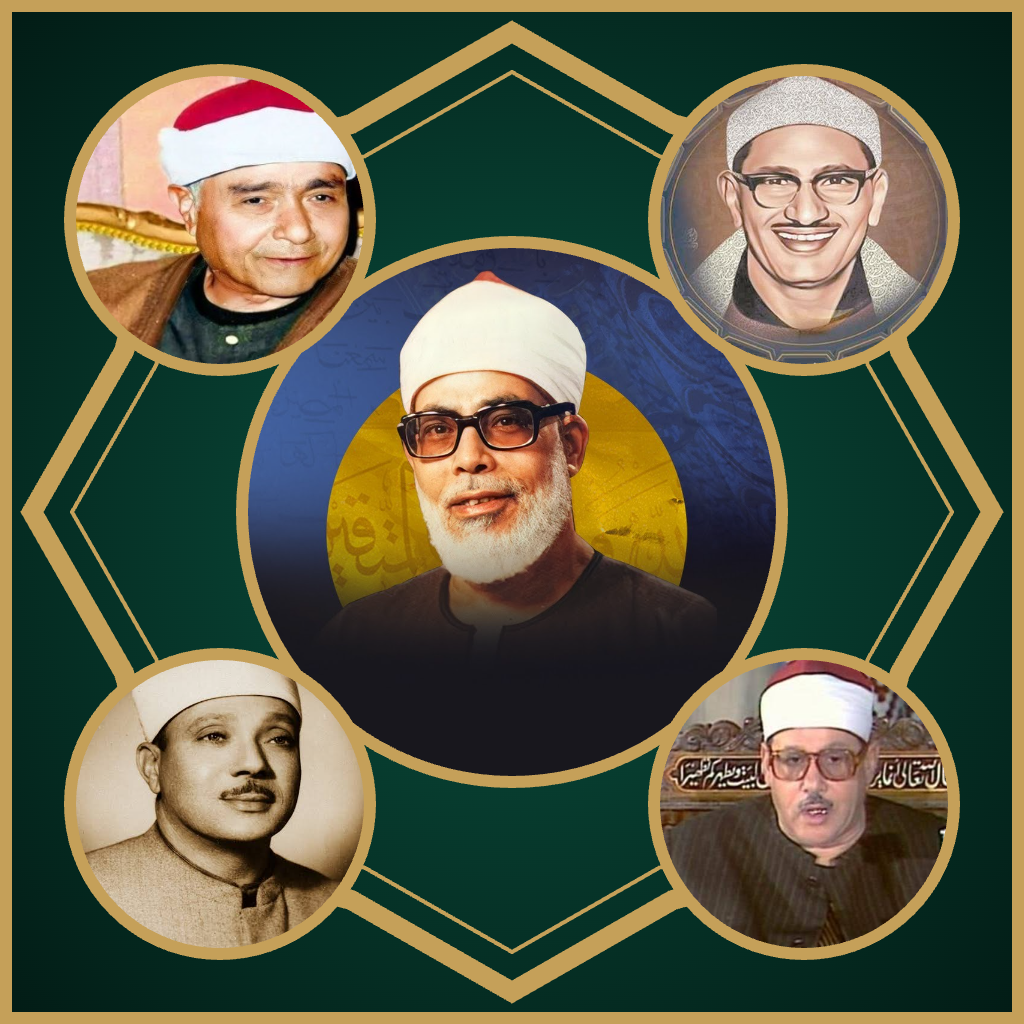
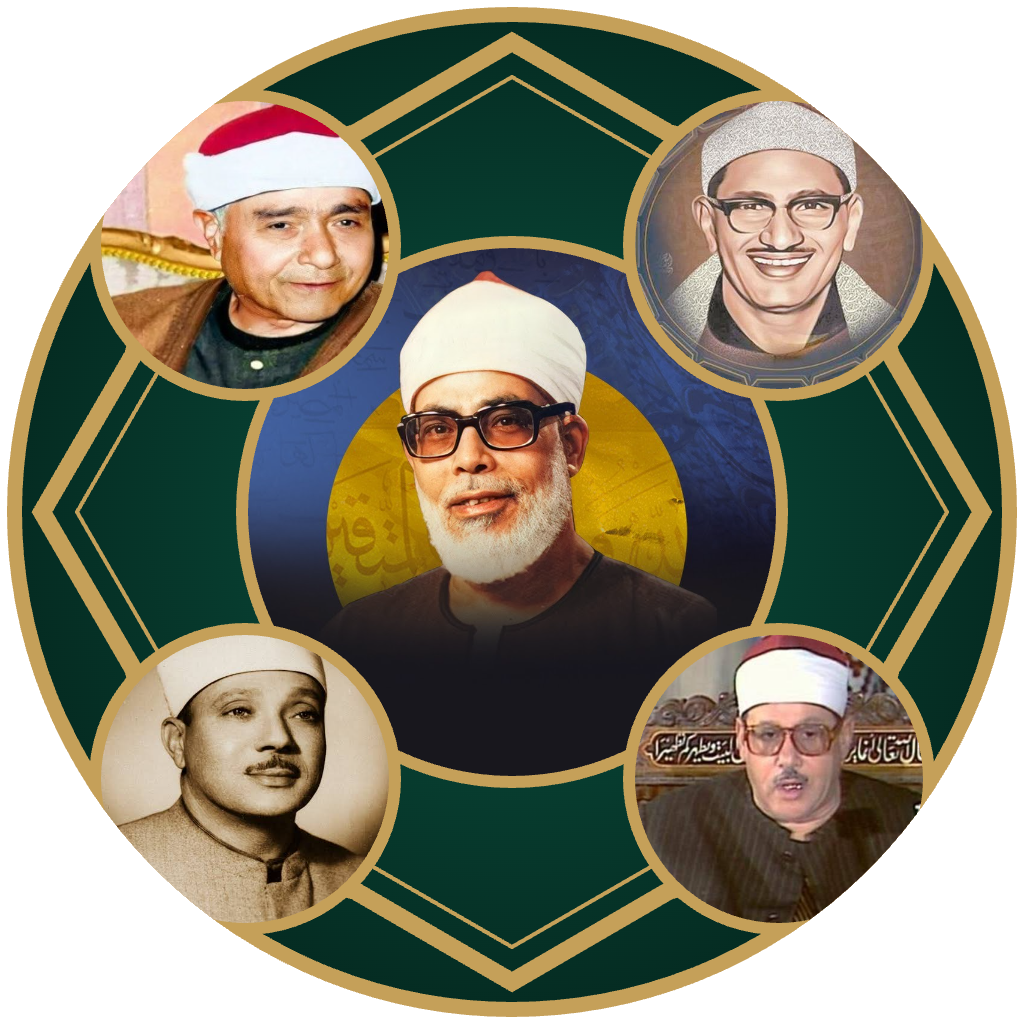
Add files via upload

diff --git a/index.html b/index.html
@@ -44,14 +44,6 @@
         * { box-sizing: border-box; margin: 0; padding: 0; -webkit-tap-highlight-color: transparent; }
         body { font-family: 'Cairo', sans-serif; background: var(--bg-dark); color: var(--text-main); min-height: 100vh; padding-bottom: 140px; user-select: none; }
         
-        /* --- شاشة البداية الثابتة --- */
-        #splash-screen { position: fixed; top: 0; left: 0; width: 100%; height: 100%; background: var(--bg-dark); z-index: 99999; display: flex; flex-direction: column; align-items: center; justify-content: center; transition: opacity 0.5s; }
-        .splash-title { color: var(--accent-gold); font-size: 2.5rem; margin-bottom: 30px; font-weight: 700; letter-spacing: 1px; }
-        .splash-row { display: flex; gap: 15px; justify-content: center; margin-bottom: 15px; width: 100%; }
-        .splash-circle { width: 120px; height: 120px; border-radius: 50%; object-fit: cover; border: 3px solid var(--accent-gold); box-shadow: 0 4px 15px rgba(197, 160, 89, 0.2); animation: fadeIn 0.8s ease both; }
-        @keyframes fadeIn { from { opacity: 0; transform: scale(0.8); } to { opacity: 1; transform: scale(1); } }
-        /* -------------------------------------------------- */
-
         .container { width: 100%; max-width: 480px; margin: 0 auto; padding: 16px; }
 
         .top-bar { display: flex; justify-content: space-between; align-items: center; padding-bottom: 20px; }
@@ -126,29 +118,6 @@
         .dl-progress-fill { height: 100%; width: 0%; background: var(--accent-gold); transition: width 0.1s linear; border-radius: 10px; }
         .dl-modal-pct { margin-top: 12px; font-size: 0.9rem; font-weight: 700; color: var(--accent-gold); }
 
-        /* رسائل التنبيه (Toast) */
-        #toast-container {
-            position: fixed;
-            bottom: 85px;
-            left: 50%;
-            transform: translateX(-50%);
-            background: var(--accent-gold);
-            color: #fff;
-            padding: 8px 18px;
-            border-radius: 25px;
-            font-size: 0.85rem;
-            font-weight: 700;
-            opacity: 0;
-            pointer-events: none;
-            transition: opacity 0.3s ease, transform 0.3s ease;
-            z-index: 10000;
-            box-shadow: 0 4px 15px rgba(0,0,0,0.2);
-        }
-        #toast-container.show {
-            opacity: 1;
-            transform: translate(-50%, -10px);
-        }
-
         /* المشغل السفلي */
         .floating-player { position: fixed; bottom: 12px; left: 50%; transform: translateX(-50%); width: 92%; max-width: 440px; background: var(--player-bg); backdrop-filter: blur(20px); border-radius: 16px; border: 1px solid var(--glass-border); padding: 10px 15px; box-shadow: 0 8px 25px rgba(0,0,0,0.1); display: none; z-index: 1000; transition: background 0.2s; }
         .player-seekbar-container { width: 100%; height: 16px; display: flex; align-items: center; cursor: pointer; direction: ltr; margin-bottom: 6px; touch-action: none; }
@@ -162,13 +131,6 @@
     </style>
 </head>
 <body>
-
-    <div id="splash-screen">
-        <h1 class="splash-title">Egy Quran</h1>
-        <div class="splash-row">
-            <img src="hosary.jpg" class="splash-circle">
-        </div>
-    </div>
 
     <div class="container">
         <div class="top-bar">
@@ -241,9 +203,6 @@
         </div>
     </div>
 
-    <!-- حاوية رسائل التنبيه (Toast) -->
-    <div id="toast-container"></div>
-
     <script>
         const surahNamesEn = [
             "", "Al-Fatihah", "Al-Baqarah", "Ali 'Imran", "An-Nisa", "Al-Ma'idah", "Al-An'am", "Al-A'raf", "Al-Anfal", "At-Tawbah", "Yunus", "Hud", "Yusuf", "Ar-Ra'd", "Ibrahim", "Al-Hijr", "An-Nahl", "Al-Isra", "Al-Kahf", "Maryam", "Taha",
@@ -311,18 +270,6 @@
         let isLooping = false;
         let isAutoNext = true; 
 
-        // نظام رسائل التنبيه (Toast)
-        let toastTimeout;
-        function showToast(message) {
-            const toast = document.getElementById('toast-container');
-            toast.innerText = message;
-            toast.classList.add('show');
-            clearTimeout(toastTimeout);
-            toastTimeout = setTimeout(() => {
-                toast.classList.remove('show');
-            }, 2000);
-        }
-
         function getSurahName(id, nameAr) { return currentLang === 'ar' ? nameAr : surahNamesEn[id]; }
 
         function toggleLanguage() {
@@ -347,25 +294,15 @@
             isLooping = !isLooping;
             audioInstance.loop = isLooping;
             const btn = document.getElementById('btn-loop');
-            if(isLooping) {
-                btn.classList.add('active-feature');
-                showToast(currentLang === 'ar' ? 'تم تفعيل تكرار السورة' : 'Repeat Enabled');
-            } else {
-                btn.classList.remove('active-feature');
-                showToast(currentLang === 'ar' ? 'تم إيقاف تكرار السورة' : 'Repeat Disabled');
-            }
+            if(isLooping) btn.classList.add('active-feature');
+            else btn.classList.remove('active-feature');
         }
 
         function toggleAutoNext() {
             isAutoNext = !isAutoNext;
             const btn = document.getElementById('btn-autonext');
-            if(isAutoNext) {
-                btn.classList.add('active-feature');
-                showToast(currentLang === 'ar' ? 'تم تفعيل التشغيل التلقائي' : 'Auto-Play Enabled');
-            } else {
-                btn.classList.remove('active-feature');
-                showToast(currentLang === 'ar' ? 'تم إيقاف التشغيل التلقائي' : 'Auto-Play Disabled');
-            }
+            if(isAutoNext) btn.classList.add('active-feature');
+            else btn.classList.remove('active-feature');
         }
 
         function syncUIWithAudioState() {
@@ -576,10 +513,6 @@
         window.addEventListener('touchend', (e) => { if (isDragging) { isDragging = false; if (e.changedTouches) seek(e); if(audioInstance.duration) audioInstance.currentTime = currentSeekPct * audioInstance.duration; } }); 
         
         progressContainer.addEventListener('click', (e) => { if(audioInstance.duration) audioInstance.currentTime = seek(e) * audioInstance.duration; });
-
-        window.addEventListener('load', () => { 
-            setTimeout(() => { const splash = document.getElementById('splash-screen'); splash.style.opacity = '0'; setTimeout(() => splash.style.display = 'none', 500); }, 1500); 
-        });
 
         if ('serviceWorker' in navigator) { window.addEventListener('load', () => { navigator.serviceWorker.register('sw.js').catch(err => console.log('SW failed')); }); }
 